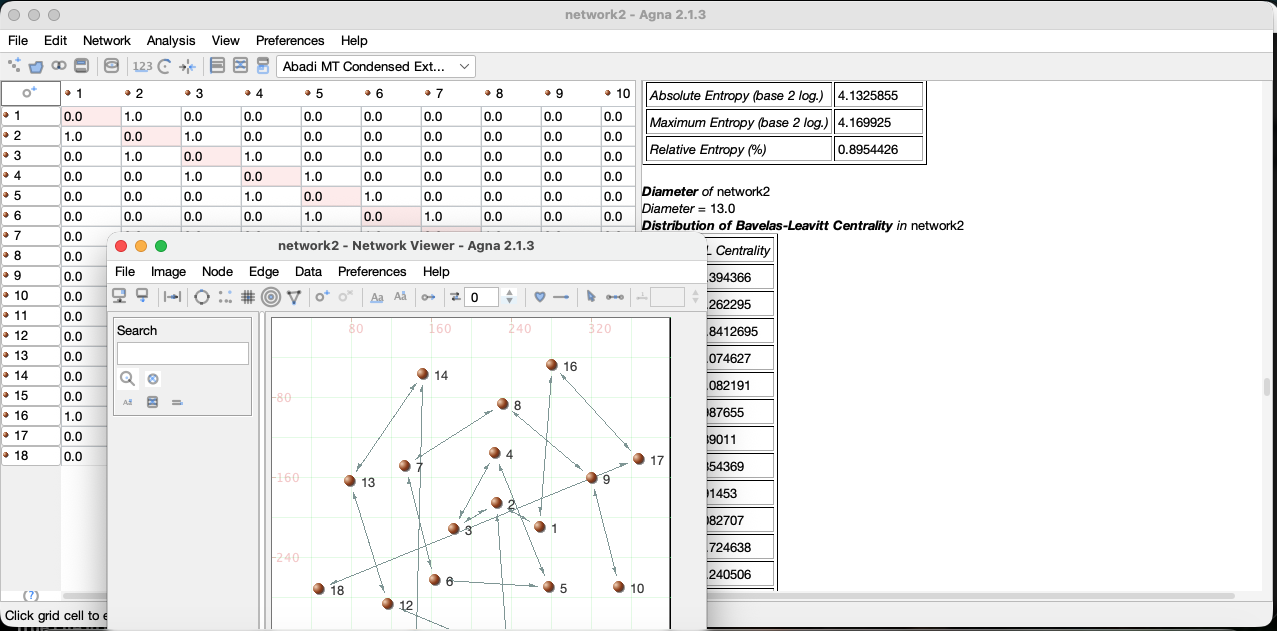
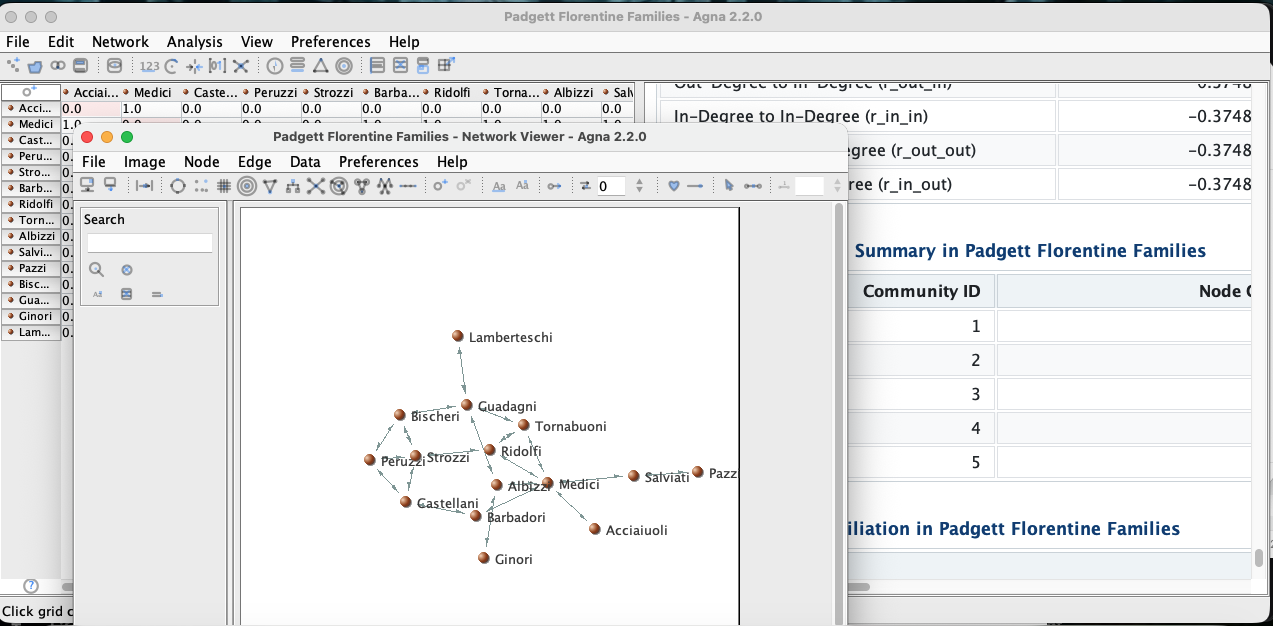
docs: update main screenshot to Agna 2.2.0 and document macOS Gatekeeper workaround

diff --git a/README.md b/README.md
@@ -3,7 +3,7 @@
 [![CI](https://github.com/baeckett/AGNA/actions/workflows/ci.yml/badge.svg)](https://github.com/baeckett/AGNA/actions/workflows/ci.yml)
 [![License: Apache-2.0](https://img.shields.io/badge/License-Apache%202.0-blue.svg)](https://www.apache.org/licenses/LICENSE-2.0)
 
-![AGNA 2.1.3 on macOS: sociomatrix grid, analysis report, and Network Viewer](docs/screenshots/agna-2.1.3-macos.png)
+![AGNA 2.2.0 on macOS: sociomatrix grid, analysis report, and Network Viewer](docs/screenshots/agna-macos.png)
 
 **AGNA — Applied Graph and Network Analysis Open Source** — is free desktop
 and command-line software for **social network analysis, sociometry, and
@@ -31,8 +31,8 @@ institutional, historical, and other relational data. It is used in
 sociology, anthropology, communication research, psychology, education,
 organizational research, animal-behavior studies, and the humanities. The
 original author, [Marius Ion Bența](https://www.netanalysis.co.uk), [George Barițiu History Institute, Cluj](https://institutuldeistoriegeorgebaritiu.ro/), built it
-(2001–2005) as a friendly alternative to programming environments; **2.1.3**
-is the open-source revival of that work, modernized and fully tested.
+(2001–2005) as a friendly alternative to programming environments; **2.2.0**
+is the open-source release of that work, modernized and fully tested.
 
 ## The three components
 
@@ -91,9 +91,12 @@ Installers bundle the Java runtime; no separate Java installation is
 needed. Choose your platform from the
 [latest release](https://github.com/baeckett/AGNA/releases):
 
-- **macOS** — [AGNA-2.2.0.dmg](https://github.com/baeckett/AGNA/releases/download/v2.2.0/AGNA-2.2.0.dmg) (Apple Silicon arm64 & Intel x86_64)
-- **Windows** — [AGNA-2.2.0-setup.exe](https://github.com/baeckett/AGNA/releases/download/v2.2.0/AGNA-2.2.0-setup.exe) · [AGNA-2.2.0-setup.msi](https://github.com/baeckett/AGNA/releases/download/v2.2.0/AGNA-2.2.0-setup.msi)
-- **Linux** — [Debian/Ubuntu .deb](https://github.com/baeckett/AGNA/releases/download/v2.2.0/agna_2.2.0_amd64.deb) · [Fedora/RHEL .rpm](https://github.com/baeckett/AGNA/releases/download/v2.2.0/agna-2.2.0.x86_64.rpm) · [portable archive](https://github.com/baeckett/AGNA/releases/download/v2.2.0/AGNA-2.2.0-Linux-x64.tar.gz)
+- **macOS** — [AGNA-2.2.0.dmg](https://github.com/baeckett/AGNA/releases/download/v2.2.0/AGNA-2.2.0.dmg) (Drag to `/Applications`)
+- **Windows** — [AGNA-2.2.0.exe](https://github.com/baeckett/AGNA/releases/download/v2.2.0/AGNA-2.2.0.exe) · [AGNA-2.2.0.msi](https://github.com/baeckett/AGNA/releases/download/v2.2.0/AGNA-2.2.0.msi)
+- **Linux** — [Debian/Ubuntu .deb](https://github.com/baeckett/AGNA/releases/download/v2.2.0/agna_2.2.0-1_amd64.deb) · [Fedora/RHEL .rpm](https://github.com/baeckett/AGNA/releases/download/v2.2.0/agna-2.2.0-1.x86_64.rpm) · [portable archive](https://github.com/baeckett/AGNA/releases/download/v2.2.0/AGNA-2.2.0-Linux-x64.tar.gz)
+
+> **Note for macOS users:** Because AGNA is community open-source software and not signed with an expensive Apple Developer ID certificate, macOS Gatekeeper may display a prompt saying *"Apple could not verify 'AGNA.app' is free of malware..."*.
+> **To open:** Drag `AGNA.app` to `/Applications`. In Finder, **Right-Click (or Control-Click) AGNA.app and choose "Open"**, then click **"Open"** in the dialogue. Alternatively, open Terminal and run: `xattr -cr /Applications/AGNA.app`. macOS will remember this and open normally from then on.
 
 ### 2. Standalone Native CLI Binaries (Zero-Install, Single-File, ~7ms Startup)
 For scripts, shell workflows, and AI coding agents, Agna CLI is provided as a **single standalone executable file** with **zero installation** and **zero Java requirements**:
